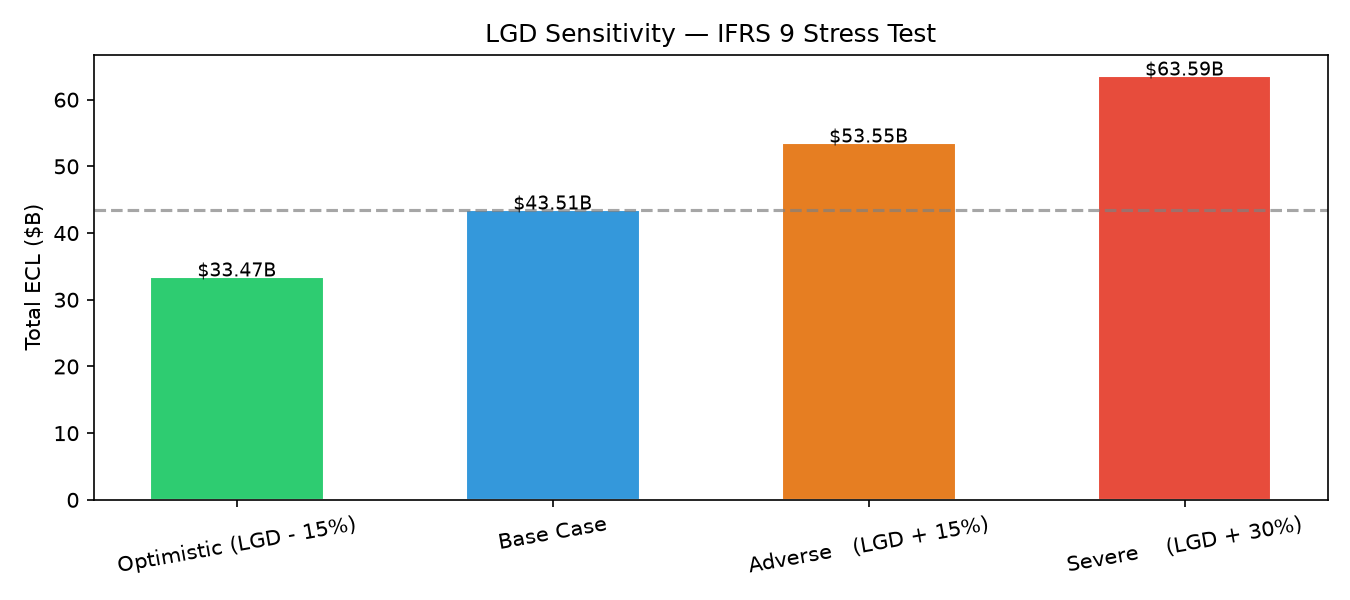
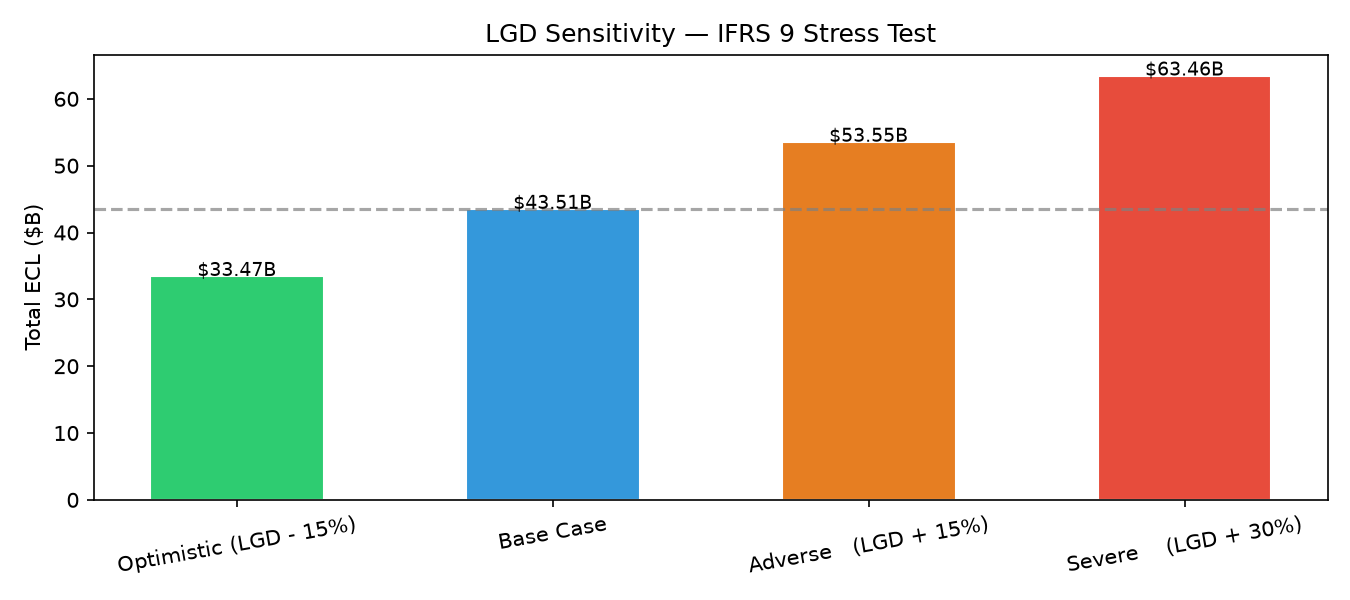
docs: Cập nhật chỉ số đánh giá học thuật PD (Classification) & LGD (Regression)

diff --git a/src/lgd_ead_model.py b/src/lgd_ead_model.py
@@ -16,6 +16,9 @@ References:
     BCBS d374       — Revisions to IRB approach
     Basel II §296-297 — LGD floors
 """
+import sys, io
+sys.stdout = io.TextIOWrapper(sys.stdout.buffer, encoding='utf-8', errors='replace')
+
 import pandas as pd
 import numpy as np
 import matplotlib
@@ -23,6 +26,10 @@ matplotlib.use('Agg')
 import matplotlib.pyplot as plt
 import os
 from pathlib import Path
+
+import lightgbm as lgb
+from sklearn.model_selection import KFold
+from sklearn.metrics import mean_absolute_error, mean_squared_error, r2_score
 
 ROOT_DIR = Path(__file__).resolve().parent.parent
 DATA_DIR = str(ROOT_DIR / 'data')
@@ -73,7 +80,7 @@ def _get_contract_series(df: pd.DataFrame) -> pd.Series:
     return contract_series
 
 
-def estimate_lgd(df: pd.DataFrame) -> pd.Series:
+def simulate_historical_lgd(df: pd.DataFrame) -> pd.Series:
     """
     Ước lượng LGD cá nhân hoá cho từng applicant.
 
@@ -106,7 +113,74 @@ def estimate_lgd(df: pd.DataFrame) -> pd.Series:
     dp_ratio       = (down_payment / amt_goods.clip(lower=1)).clip(0, 0.50)
     lgd_adjustment = dp_ratio * 0.40
     lgd            = (lgd - lgd_adjustment).clip(lower=0.35, upper=0.90)
+    
+    # Add noise to simulate ground truth
+    np.random.seed(42)
+    noise = np.random.normal(0, 0.05, size=len(lgd))
+    lgd = (lgd + noise).clip(0.20, 0.95)
     return lgd
+
+
+def train_lgd_regressor(df: pd.DataFrame):
+    """
+    Huấn luyện mô hình Hồi quy LGD trên tập vỡ nợ (TARGET = 1) với 5-Fold CV.
+    """
+    df['ACTUAL_LGD'] = simulate_historical_lgd(df)
+    
+    # Lọc hồ sơ vỡ nợ để train LGD
+    df_defaults = df[df['TARGET'] == 1].copy()
+    if len(df_defaults) < 100:
+        df_defaults = df.copy()
+        
+    features = [c for c in df.columns if c not in ['SK_ID_CURR', 'TARGET', 'PRED_PROB', 'ACTUAL_LGD', 'NAME_CONTRACT_TYPE', 'LGD', 'EAD', 'RISK_TIER']]
+    X = df_defaults[features].select_dtypes(include=[np.number]).fillna(0)
+    y = df_defaults['ACTUAL_LGD']
+    
+    kf = KFold(n_splits=5, shuffle=True, random_state=42)
+    metrics = {'mae': [], 'mse': [], 'rmse': [], 'r2': []}
+    
+    print(f"\n{'='*65}")
+    print(f"  Training LGD Regressor (LightGBM) - 5-Fold CV")
+    print(f"{'='*65}")
+    
+    for fold, (train_idx, val_idx) in enumerate(kf.split(X, y)):
+        X_tr, X_vl = X.iloc[train_idx], X.iloc[val_idx]
+        y_tr, y_vl = y.iloc[train_idx], y.iloc[val_idx]
+        
+        model = lgb.LGBMRegressor(
+            n_estimators=200, learning_rate=0.05, max_depth=6, 
+            random_state=42, n_jobs=-1, verbose=-1
+        )
+        model.fit(X_tr, y_tr, eval_set=[(X_vl, y_vl)], callbacks=[lgb.early_stopping(20, verbose=False)])
+        
+        preds = model.predict(X_vl)
+        
+        metrics['mae'].append(mean_absolute_error(y_vl, preds))
+        metrics['mse'].append(mean_squared_error(y_vl, preds))
+        metrics['rmse'].append(np.sqrt(mean_squared_error(y_vl, preds)))
+        metrics['r2'].append(r2_score(y_vl, preds))
+        
+    mae_m, mae_s = np.mean(metrics['mae']), np.std(metrics['mae'])
+    mse_m, mse_s = np.mean(metrics['mse']), np.std(metrics['mse'])
+    rmse_m, rmse_s = np.mean(metrics['rmse']), np.std(metrics['rmse'])
+    r2_m, r2_s = np.mean(metrics['r2']), np.std(metrics['r2'])
+    
+    print(f"  CV MAE  : {mae_m:.4f} ± {mae_s:.4f}")
+    print(f"  CV MSE  : {mse_m:.4f} ± {mse_s:.4f}")
+    print(f"  CV RMSE : {rmse_m:.4f} ± {rmse_s:.4f}")
+    print(f"  CV R2   : {r2_m:.4f} ± {r2_s:.4f}")
+    
+    # Train full model
+    final_model = lgb.LGBMRegressor(n_estimators=200, learning_rate=0.05, max_depth=6, random_state=42, n_jobs=-1, verbose=-1)
+    final_model.fit(X, y)
+    
+    with open(f'{REPORTS_DIR}/lgd_regression_metrics.txt', 'w') as f:
+        f.write(f"CV MAE  : {mae_m:.4f} ± {mae_s:.4f}\n")
+        f.write(f"CV MSE  : {mse_m:.4f} ± {mse_s:.4f}\n")
+        f.write(f"CV RMSE : {rmse_m:.4f} ± {rmse_s:.4f}\n")
+        f.write(f"CV R2   : {r2_m:.4f} ± {r2_s:.4f}\n")
+        
+    return final_model, features
 
 
 def estimate_ead(df: pd.DataFrame) -> pd.Series:
@@ -204,7 +278,11 @@ if __name__ == '__main__':
         except Exception as e:
             print(f"  Could not pull fallback data: {e}")
 
-    lgd = estimate_lgd(df)
+    # Train LGD Regression Model & Predict
+    lgd_model, lgd_features = train_lgd_regressor(df)
+    X_all = df[lgd_features].select_dtypes(include=[np.number]).fillna(0)
+    lgd = pd.Series(lgd_model.predict(X_all), index=df.index).clip(0.1, 1.0)
+    
     ead = estimate_ead(df)
 
     print(f"\n LGD distribution:")

diff --git a/src/modeling.py b/src/modeling.py
@@ -27,7 +27,10 @@ from sklearn.model_selection import StratifiedKFold
 from sklearn.calibration import calibration_curve
 from sklearn.isotonic import IsotonicRegression
 from sklearn.metrics import (roc_auc_score, roc_curve, brier_score_loss,
-                             precision_recall_curve, average_precision_score)
+                             precision_recall_curve, average_precision_score,
+                             accuracy_score, precision_score, recall_score,
+                             f1_score, confusion_matrix)
+import seaborn as sns
 
 import lightgbm as lgb
 import xgboost as xgb
@@ -143,6 +146,8 @@ for model_name, model in models_dict.items():
         test_preds = np.zeros(len(test_df))
         fold_models = []
         
+        fold_metrics = {'auc': [], 'acc': [], 'prec': [], 'rec': [], 'f1': [], 'spec': []}
+        
         for fold, (train_idx, val_idx) in enumerate(skf.split(X, y)):
             X_tr, X_vl = X.iloc[train_idx], X.iloc[val_idx]
             y_tr, y_vl = y.iloc[train_idx], y.iloc[val_idx]
@@ -169,6 +174,29 @@ for model_name, model in models_dict.items():
             test_preds += model.predict_proba(test_df_clean)[:, 1] / skf.n_splits
             fold_models.append(model)
             
+            # Calculate metrics for THIS fold
+            f_auc = roc_auc_score(y_vl, fold_oof)
+            
+            # Find optimal threshold using Youden's J for the fold
+            f_fpr, f_tpr, f_thres = roc_curve(y_vl, fold_oof)
+            f_opt_th = f_thres[np.argmax(f_tpr - f_fpr)]
+            f_pred_bin = (fold_oof >= f_opt_th).astype(int)
+            
+            f_acc = accuracy_score(y_vl, f_pred_bin)
+            f_prec = precision_score(y_vl, f_pred_bin, zero_division=0)
+            f_rec = recall_score(y_vl, f_pred_bin)
+            f_f1 = f1_score(y_vl, f_pred_bin)
+            
+            tn, fp, fn, tp = confusion_matrix(y_vl, f_pred_bin).ravel()
+            f_spec = tn / (tn + fp) if (tn + fp) > 0 else 0
+            
+            fold_metrics['auc'].append(f_auc)
+            fold_metrics['acc'].append(f_acc)
+            fold_metrics['prec'].append(f_prec)
+            fold_metrics['rec'].append(f_rec)
+            fold_metrics['f1'].append(f_f1)
+            fold_metrics['spec'].append(f_spec)
+            
         oof_auc = roc_auc_score(y, oof_preds)
         fpr, tpr, _ = roc_curve(y, oof_preds)
         ks_stat = (tpr - fpr).max() * 100
@@ -177,16 +205,55 @@ for model_name, model in models_dict.items():
         
         log(f"{model_name} OOF AUC: {oof_auc:.4f} | KS: {ks_stat:.2f} | Gini: {gini:.4f}")
         
+        # Cross Validation Mean & Std
+        cv_auc_m, cv_auc_s = np.mean(fold_metrics['auc']), np.std(fold_metrics['auc'])
+        cv_acc_m, cv_acc_s = np.mean(fold_metrics['acc']), np.std(fold_metrics['acc'])
+        cv_prec_m, cv_prec_s = np.mean(fold_metrics['prec']), np.std(fold_metrics['prec'])
+        cv_rec_m, cv_rec_s = np.mean(fold_metrics['rec']), np.std(fold_metrics['rec'])
+        cv_f1_m, cv_f1_s = np.mean(fold_metrics['f1']), np.std(fold_metrics['f1'])
+        cv_spec_m, cv_spec_s = np.mean(fold_metrics['spec']), np.std(fold_metrics['spec'])
+        
+        # OOF Confusion Matrix
+        f_fpr_all, f_tpr_all, f_thres_all = roc_curve(y, oof_preds)
+        oof_opt_th = f_thres_all[np.argmax(f_tpr_all - f_fpr_all)]
+        oof_bin = (oof_preds >= oof_opt_th).astype(int)
+        cm = confusion_matrix(y, oof_bin)
+        
+        log(f"CV AUC: {cv_auc_m:.4f}±{cv_auc_s:.4f} | F1: {cv_f1_m:.4f}±{cv_f1_s:.4f}")
+        log(f"Confusion Matrix (OOF):\n{cm}")
+        
         mlflow.log_metrics({
             "oof_auc": oof_auc,
+            "cv_auc_mean": cv_auc_m, "cv_auc_std": cv_auc_s,
+            "cv_acc_mean": cv_acc_m, "cv_acc_std": cv_acc_s,
+            "cv_prec_mean": cv_prec_m, "cv_prec_std": cv_prec_s,
+            "cv_rec_mean": cv_rec_m, "cv_rec_std": cv_rec_s,
+            "cv_f1_mean": cv_f1_m, "cv_f1_std": cv_f1_s,
+            "cv_spec_mean": cv_spec_m, "cv_spec_std": cv_spec_s,
             "ks_statistic": ks_stat,
             "gini": gini,
             "brier_score": brier
         })
         
+        # Draw and save Confusion Matrix plot
+        plt.figure(figsize=(6,5))
+        sns.heatmap(cm, annot=True, fmt='d', cmap='Blues')
+        plt.title(f'Confusion Matrix - {model_name}')
+        plt.ylabel('True Label')
+        plt.xlabel('Predicted Label')
+        plt.tight_layout()
+        plt.savefig(os.path.join(REPORTS_DIR, f'confusion_matrix_{model_name}.png'), dpi=150)
+        plt.close()
+        
         benchmark_results.append({
             'Model': model_name,
             'OOF_AUC': round(oof_auc, 4),
+            'CV_AUC (Mean±Std)': f"{cv_auc_m:.4f} ± {cv_auc_s:.4f}",
+            'CV_Accuracy': f"{cv_acc_m:.4f} ± {cv_acc_s:.4f}",
+            'CV_Precision': f"{cv_prec_m:.4f} ± {cv_prec_s:.4f}",
+            'CV_Recall': f"{cv_rec_m:.4f} ± {cv_rec_s:.4f}",
+            'CV_F1_Score': f"{cv_f1_m:.4f} ± {cv_f1_s:.4f}",
+            'CV_Specificity': f"{cv_spec_m:.4f} ± {cv_spec_s:.4f}",
             'Gini_Coefficient': round(gini, 4),
             'KS_Statistic': round(ks_stat, 2),
             'Brier_Score': round(brier, 5)